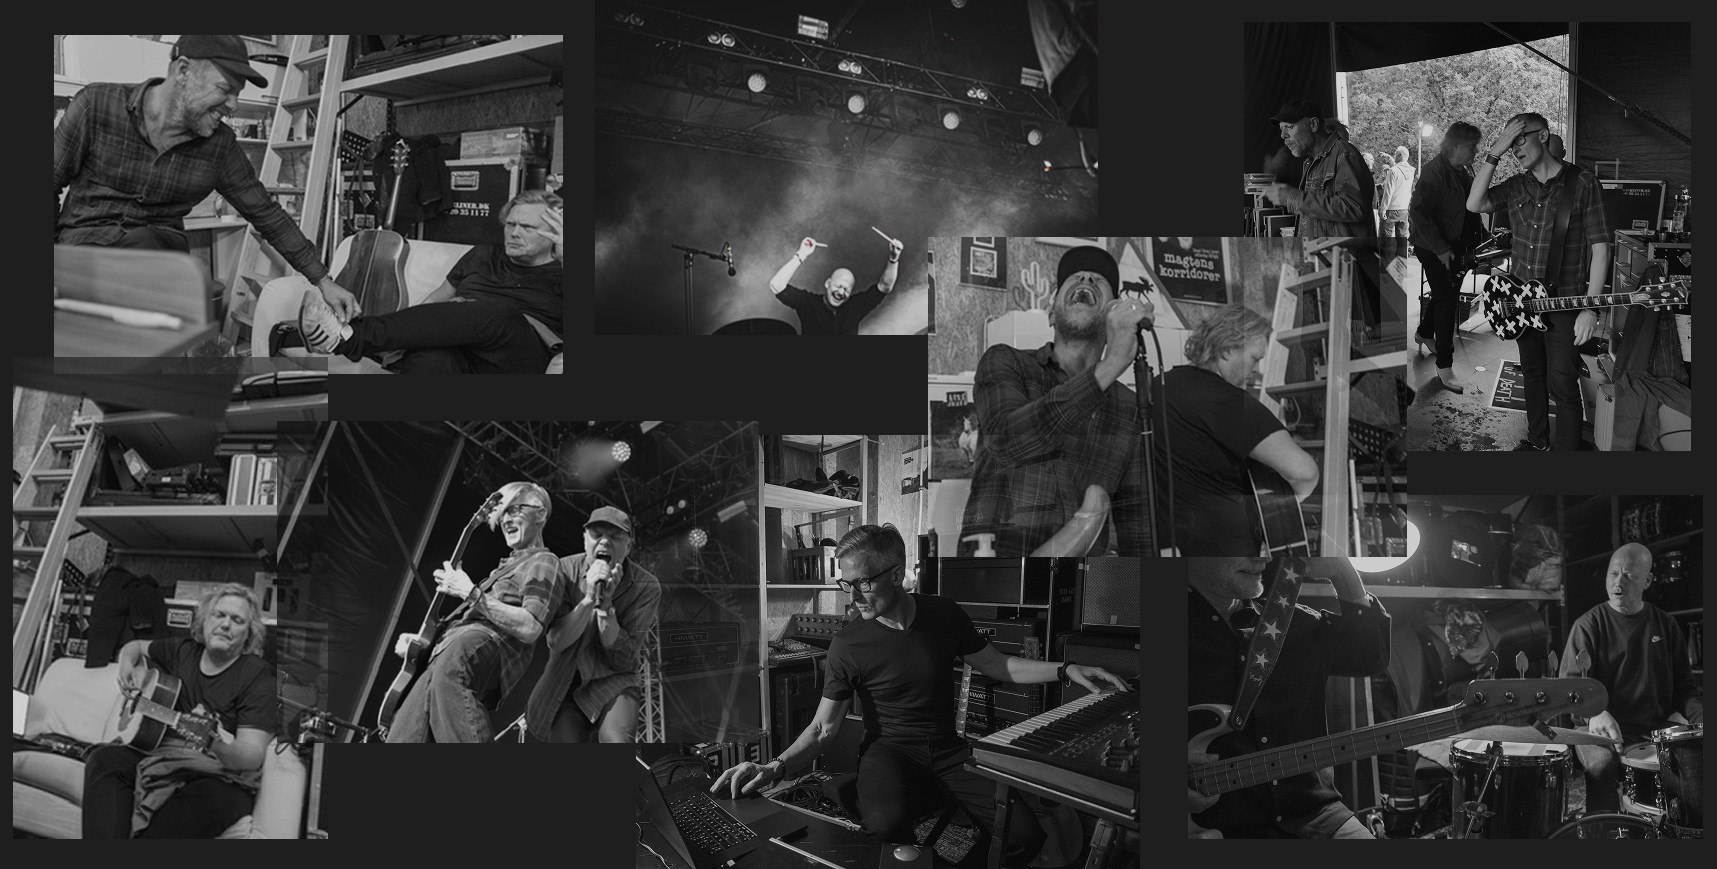
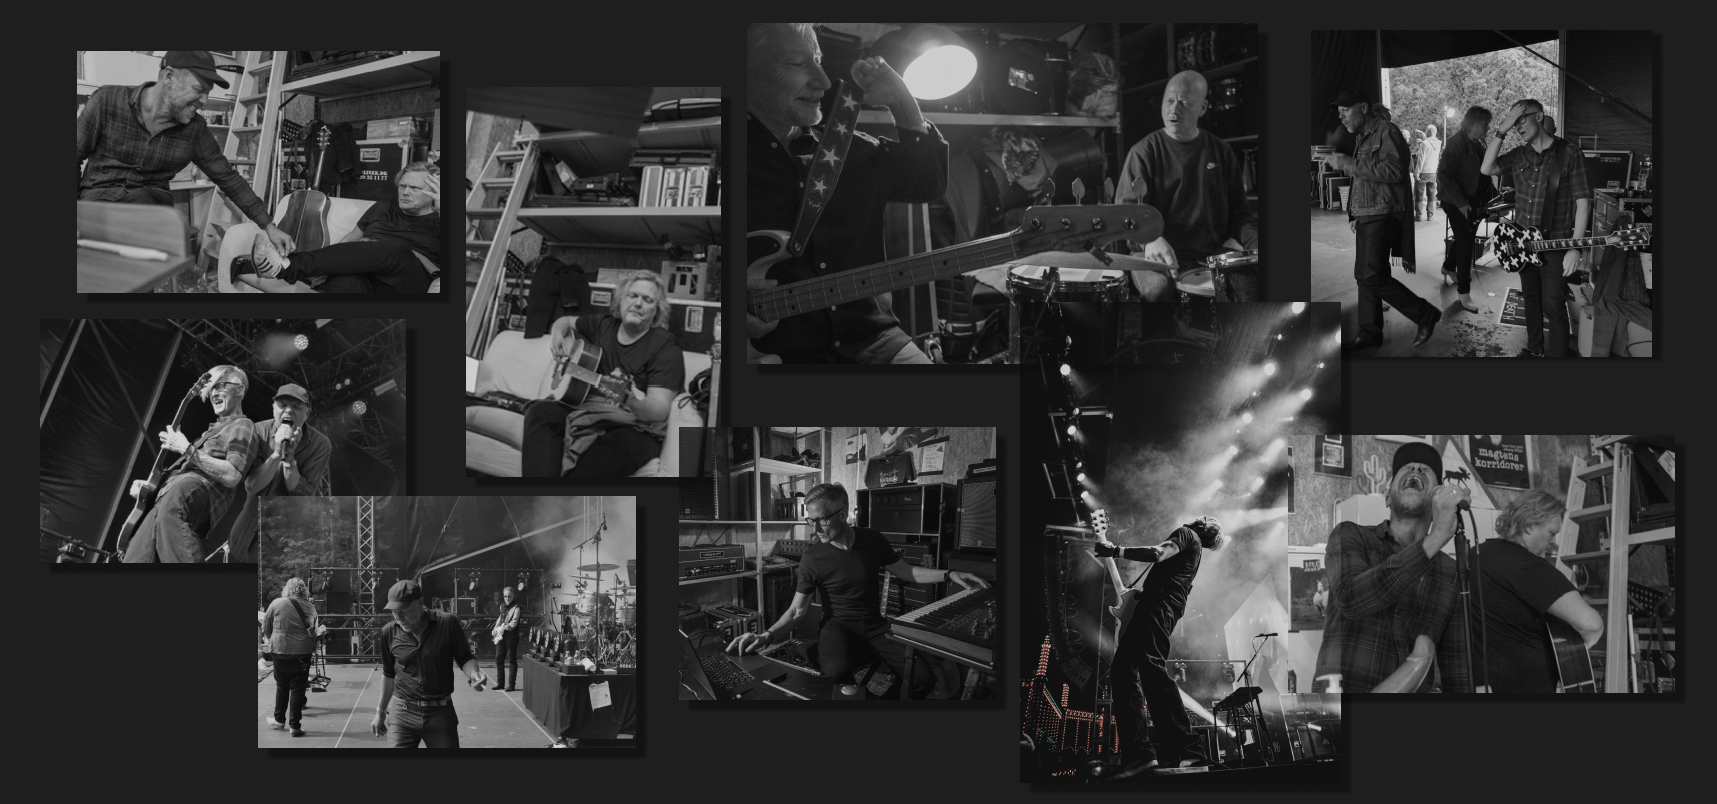
forside done

diff --git a/index.html b/index.html
@@ -6,11 +6,45 @@
     <meta name="viewport" content="width=device-width, initial-scale=1.0">
     <title>Forside</title>
     <link rel="stylesheet" href="CSS/index.css">
+    <link rel="stylesheet" href="CSS/general_style.css">
+    <link rel="preconnect" href="https://fonts.googleapis.com">
+    <link rel="preconnect" href="https://fonts.gstatic.com" crossorigin>
+    <link href="https://fonts.googleapis.com/css2?family=Special+Elite&display=swap" rel="stylesheet">
+
+    <link rel="preconnect" href="https://fonts.googleapis.com">
+    <link rel="preconnect" href="https://fonts.gstatic.com" crossorigin>
+    <link href="https://fonts.googleapis.com/css2?family=Amarna:ital,wght@0,100..700;1,100..700&display=swap"
+        rel="stylesheet">
+    <link rel="icon" href="favicon.png" type="image/png">
+    <link rel="preconnect" href="https://fonts.googleapis.com">
+    <link rel="preconnect" href="https://fonts.gstatic.com" crossorigin>
+    <link href="https://fonts.googleapis.com/css2?family=Rubik+Distressed&display=swap" rel="stylesheet">
 </head>
 
 <body>
+    <header>
+        <div class="logo">
+            <a href="index.html">
+                <img src="logo.png" alt="Logo">
+            </a>
+        </div>
+        <nav>
+            <ul class="menu">
+                <li><a href="index.html"></a></li>
+                <li><a href="tourplan_billetter.html">Tourplan og billetter</a></li>
+                <li><a href="mod_bandet.html">Mød bandet</a></li>
+                <li><a href="book.html">Kontakt og booking</a></li>
+                <li class="round-btn"> <a href="https://beatdown.dk/collections/magtens-korridorer">Shop</a></li>
+            </ul>
+            <button class="burger">
+                <span class="line"></span>
+                <span class="line"></span>
+                <span class="line"></span>
+            </button>
+        </nav>
+    </header>
     <main class="mobile">
-        <div class="grid_1-1-1">
+        <div class="grid_3-1">
             <div class="img1">
                 <img src="img1.png" alt="img1">
             </div>
@@ -36,12 +70,32 @@
             <div class="img4">
                 <img src="img4.png" alt="img4">
             </div>
-        </div>
+        </div>x
     </main>
-
     <div class="collage">
-        <h1>Magtens korridorer</h1>
+        <h1 class="box-1">Magtens Korridorer</h1>
     </div>
+
+    <footer>
+        <div class="grid_1-1-1">
+            <div class="links">
+
+                <a href="tourplan_billetter.html">Tourplan og billetter</a>
+                <a href="book.html">Booking: jj@helterskelter.dk</a>
+            </div>
+
+            <div class="socialemedier">
+                <a href="https://www.instagram.com/magtenskorridorer/"><img class="medier" src="instagram.png"
+                        alt="instagram"></a>
+                <a href="https://www.facebook.com/MagtensKorridorer"><img class="medier" src="facebook.png"
+                        alt="facebook"></a>
+            </div>
+        </div>
+
+    </footer>
+    <script src="JS/burger.js"></script>
+    <script src="JS/login.js"></script>
+    <script src="js/form.js"></script>
 
 </body>
 

diff --git a/CSS/index.css b/CSS/index.css
@@ -5,9 +5,37 @@
 /*** layout ***/
 .collage {
   text-align: center;
+  background-position: center;
   background-size: contain;
   background-image: url(/collage.jpg);
-  height: 100vh;
+  background-repeat: no-repeat;
+  width: 100vw;
+  height: 90vh;
+}
+
+.collage {
+  display: grid;
+  grid-template-columns: repeat(10, 1fr);
+  grid-template-rows: repeat(5, 1fr);
+}
+
+.box-1 {
+  grid-column: 4/8;
+  grid-row: 2/4;
+}
+.box-1 {
+  color: white;
+  font-size: 8rem;
+  font-family: "Rubik Distressed", system-ui;
+  font-weight: 400;
+}
+
+/*** font ****/
+
+.rubik-distressed-regular {
+  font-family: "Rubik Distressed", system-ui;
+  font-weight: 400;
+  font-style: normal;
 }
 
 @media screen and (max-width: 800px) {
@@ -16,7 +44,7 @@
     display: block;
   }
 
-  .grid_1-1-1 {
+  .grid_3-1 {
     display: grid;
     grid-template-columns: 1fr 1fr 1fr 1fr;
     grid-auto-rows: 50px;
@@ -76,8 +104,6 @@
     width: 100%;
     height: auto;
     display: block;
-    margin-block: 1.2rem;
-    box-shadow: 20px 30px 10px black;
   }
 
   .menu {
@@ -88,7 +114,8 @@
   }
 
   .MK {
-    padding-top: 200px;
+    padding-top: 100px;
+
     font-size: 1rem;
     text-align: center;
   }
